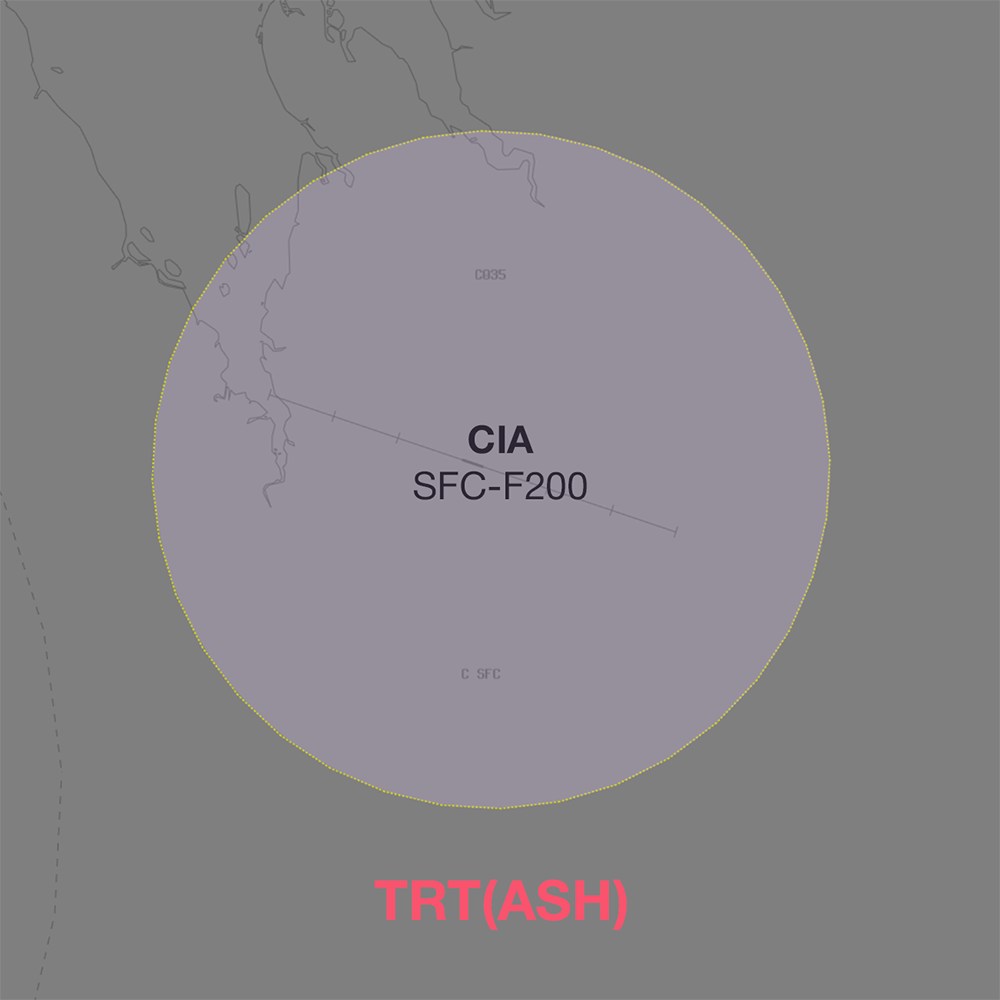
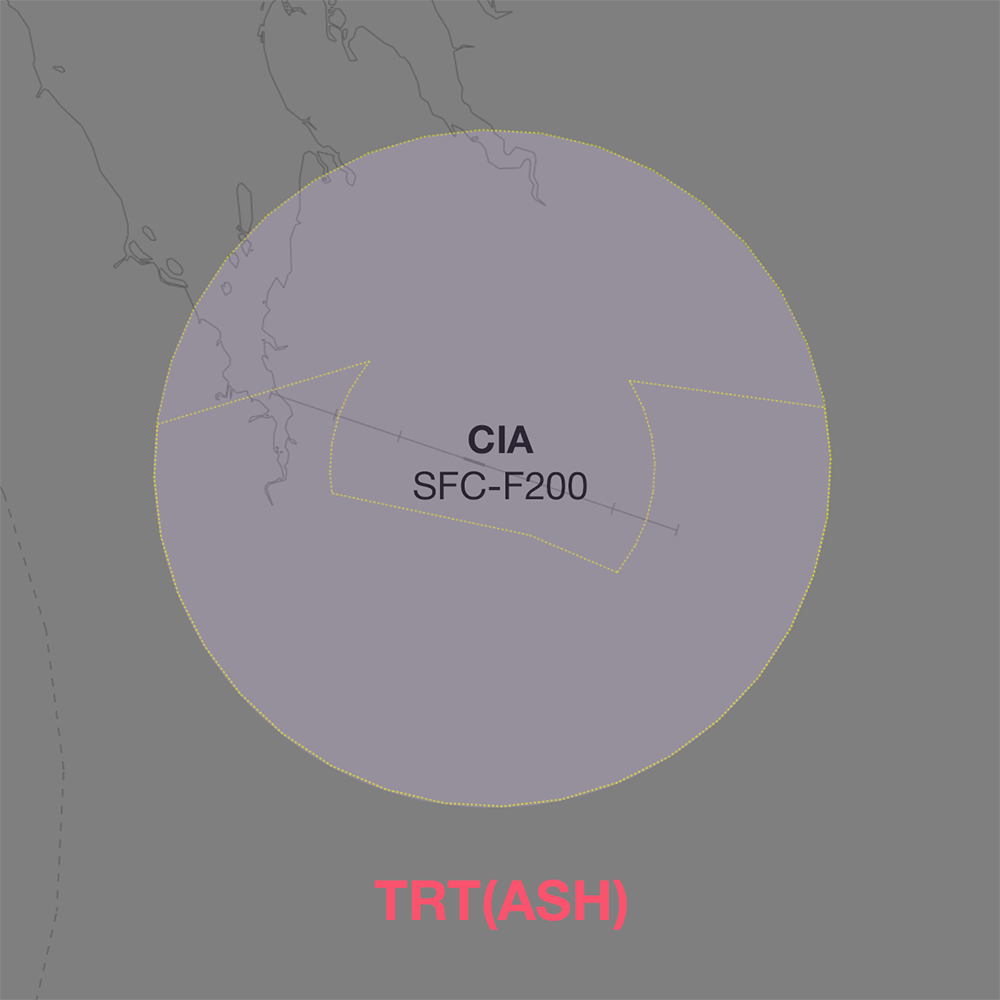
LM -> SY

diff --git a/docs/terminal/nowra.md b/docs/terminal/nowra.md
@@ -5,30 +5,45 @@
 --8<-- "includes/abbreviations.md"
 
 ## Positions
-| Name               | ID      | Callsign       | Frequency        | Login ID              |
-| ------------------ | --------------| -------------- | ---------------- | --------------------------------------|
-| **Nowra TMA**    | **NWA** | **Nowra Approach** | **123.500**          | **NW_APP**        |
+| Name                          | ID      | Callsign                | Frequency   | Login ID      |
+| ----------------------------- | ------- | ----------------------- | ----------- | ------------- |
+| **Nowra Approach**            | **NWA** | **Nowra Approach**      | **123.500** | **NW_APP**    |
 
 ## Airspace
-NW TCU owns the airspace within R421, `SFC` to `F125`. Where traffic levels (primarily preplanned military operations) warrant, NW TCU may request a release of R420F from `F125` to `F300` from WOL, if online.
+The vertical limits of the Nowra TCU is `SFC` to `F125`. Where traffic levels (primarily preplanned military operations) warrant, NW TCU may request a release of R420F from `F125` to `F300` from WOL, if online.
 
 <figure markdown>
-![NW TMA](img/nwtcu.png){ width="700" }
-<figcaption>NW TMA</figcaption>
+![NW TCU Structure](img/nw_tcu.png){ width="700" }
+  <figcaption>NW TCU Structure</figcaption>
 </figure>
+
+### Airspace Division
+**NWA** owns the airspace contained within:
+
+- R421A (`A015`-`A125`)  
+- R421B (`A025`-`A125`)  
+- M440A (`NOTAM`)
+- M440B (`NOTAM`)
+- M441 (`NOTAM`)
+
+<figure markdown>
+![NW TCU Restricted Areas](img/nw_restricted_areas.png){ width="952" }
+  <figcaption>nw TCU Restricted Areas</figcaption>
+</figure>
+
+**NW ADC** owns the Class C airspace in the AMB CTR from `SFC` to `A015`.
 
 ## Logon Process
 Due to the temporary nature of the airspace, surrounding controllers may not be aware of the lateral or vertical boundaries of the TMA. Therefore, when a controller logs on as Nowra TMA, it is important to announce that R421 is activated from SFC to F125.
-
 
 ## Local Procedures
 ### Activating R420F
 Where it is deemed operationally beneficial to activate R420F, this should be requested from the overlying enroute controller.
 
 !!! phraseology
-    <span class="hotline">**NW TCU** -> **WOL**</span>: "There's a preplanned military exercise about to commence, request release of R420F up to F300"  
-    <span class="hotline">**WOL** -> **NW TCU**</span>: "R420F released to you F125 to F300"  
-    <span class="hotline">**NW TCU** -> **WOL**</span>: "R420F released F125 to F300"   
+    <span class="hotline">**NWA** -> **WOL**</span>: "There's a preplanned military exercise about to commence, request release of R420F up to F300"  
+    <span class="hotline">**WOL** -> **NWA**</span>: "R420F released to you F125 to F300"  
+    <span class="hotline">**NWA** -> **WOL**</span>: "R420F released F125 to F300"   
 
 As per [Coordination](#enroute), with R420F active, all transiting aircraft will be coordinated by WOL. Where possible, facilitate the transit of these aircraft. In exceptional circumstances where the level of military aircraft movements prohibit transiting civil aircraft, inform WOL that no transiting aircraft can be accommodated, and that they will need to be rerouted to remain clear of the TCU.
 
@@ -76,11 +91,14 @@ The Standard Assignable level from **NW ADC** to **NW TCU** is:
 | All | The lower of `F120` and `RFL` | 
 
 !!! phraseology
-    <span class="hotline">**NW ADC** -> **NW TCU**</span>: "Next, BUCK03, runway 08"  
-    <span class="hotline">**NW TCU** -> **NW ADC**</span>: "BUCK03, Assigned Heading Left 030, unrestricted"  
-    <span class="hotline">**NW ADC** -> **NW TCU**</span>: "Assigned Heading Heading Left 030, BUCK03"
+    <span class="hotline">**NW ADC** -> **NWA**</span>: "Next, BUCK03, runway 08"  
+    <span class="hotline">**NWA** -> **NW ADC**</span>: "BUCK03, Assigned Heading Left 030, unrestricted"  
+    <span class="hotline">**NW ADC** -> **NWA**</span>: "Assigned Heading Heading Left 030, BUCK03"
 
 Helicopters departing from helicopter spots will be treated as if departing from the duty runway.
+
+### SY TCU
+All aircraft transiting between SY TCU and NW TCU require [Heads-up](../controller-skills/coordination.md#heads-up) coordination prior to the boundary; however, as soon as practical (when is the aircraft becomes airborne) is preferred. 
 
 ## Charts
 Aerodrome and instrument approach charts are available in the AIP, or otherwise in the RAAF TERMA document, available towards the bottom of [RAAF AIP page](https://ais-af.airforce.gov.au/australian-aip){target=new}.

diff --git a/docs/terminal/melbourne.md b/docs/terminal/melbourne.md
@@ -6,20 +6,20 @@
 
 ## Positions
 
-| Name               | ID      | Callsign       | Frequency        | Login ID              |
-| ------------------ | --------------| -------------- | ---------------- | --------------------------------------|
-| **Melbourne Approach East**    |**MAE**| **Melbourne Approach**   | **132.000**         | **ML_APP**                                   |
-| <span class="indented">Melbourne Departures North :material-information-outline:{ title="Non-standard position"}    |MDN| Melbourne Departures  | 118.900         | ML_DEP          |
-| <span class="indented">Melbourne Departures South :material-information-outline:{ title="Non-standard position"}   |MDS| Melbourne Departures | 129.400          | ML-S_DEP         |
-| <span class="indented">Melbourne (Avalon) Approach :material-information-outline:{ title="Non-standard position"}   |MAV| Avalon Approach | 133.550          | AV_APP         |
-| <span class="indented">Melbourne Flow :material-information-outline:{ title="Non-standard position"}        |MFL|                |          | ML_FMP                             |
+| Name                          | ID      | Callsign                | Frequency   | Login ID      |
+| ----------------------------- | ------- | ----------------------- | ----------- | ------------- |
+| **Melbourne Approach East**   | **MAE** | **Melbourne Approach**  | **132.000** | **ML_APP**    |
+| <span class="indented">Melbourne Departures North :material-information-outline:{ title="Non-standard position"}  | MDN | Melbourne Departures | 118.900  | ML_DEP   |
+| <span class="indented">Melbourne Departures South :material-information-outline:{ title="Non-standard position"}  | MDS | Melbourne Departures | 129.400  | ML-S_DEP |
+| <span class="indented">Melbourne (Avalon) Approach :material-information-outline:{ title="Non-standard position"} | MAV | Avalon Approach      | 133.550  | AV_APP   |
+| <span class="indented">Melbourne Flow :material-information-outline:{ title="Non-standard position"}              | MFL |                      |          | ML_FMP   |
 
 !!! abstract "Non-Standard Positions"
     :material-information-outline: Non-standard positions may only be used in accordance with [VATPAC Air Traffic Services Policy](https://vatpac.org/publications/policies){target=new}.  
     Approval must be sought from the **bolded parent position** prior to opening a Non-Standard Position, unless [NOTAMs](https://vatpac.org/publications/notam){target=new} indicate otherwise (eg, for events).
 
 ## Airspace
-The Vertical limits of the ML TCU are `SFC` to `F245`.
+The vertical limits of the ML TCU are `SFC` to `F245`.
 
 ### Reclassifications
 #### MB CTR

diff --git a/docs/terminal/learmonth.md b/docs/terminal/learmonth.md
@@ -6,17 +6,18 @@
 
 ## Positions
 
-| Name               | Callsign       | Frequency        | Login ID              |
-| ------------------ | -------------- | ---------------- | --------------------------------------|
-| **Learmonth TCU**   | **Learmonth Approach**   | **120.500**        | **LM_APP**                                   |
+| Name                          | ID      | Callsign                | Frequency   | Login ID      |
+| ----------------------------- | ------- | ----------------------- | ----------- | ------------- |
+| **Learmonth Approach**        | **LMA** | **Learmonth Approach**  | **120.500** | **LM_APP**    |
 
 ## Airspace
 The limits of the LM TCU are `SFC` to `F280` within 40 DME LM. This may be amended by NOTAM.
 
-By default, LM APP owns the Class C airspace within the LM MIL CTR `A015`-`A025`, as well as the following Restricted Areas, as detailed below:
+By default, LM APP owns the Class C airspace within the LM CTR `A015`-`A025`, as well as the following Restricted Areas, as detailed below:
 
-- R859A (`A045`-`A100`)  
-- R859B (`A100`-`F280`)  
+- M858A (`A045`-`A100`)  
+- M858B (`A100`-`F280`)
+- M869B (`A100`-`F250`)
 - R860A (`A015`-`A025`)  
 - R860B (`A025`-`F280`)  
 
@@ -46,8 +47,8 @@ Voiceless coordination is in place from LM TCU to OLW for aircraft assigned the 
 Any aircraft not meeting the above criteria must be prior coordinated to ENR.
 
 !!! phraseology
-    <span class="hotline">**LM TCU** -> **OLW**</span>: "QFA1601, with your concurrence, will be assigned F160, for my separation with JTE654"  
-    <span class="hotline">**OLW** -> **LM TCU**</span>: "QFA1601, concur F160"  
+    <span class="hotline">**LMA** -> **OLW**</span>: "QFA1601, with your concurrence, will be assigned F160, for my separation with JTE654"  
+    <span class="hotline">**OLW** -> **LMA**</span>: "QFA1601, concur F160"  
 
 #### Arrivals
 The Standard assignable level from OLW to LM TCU is `F130`, and tracking via LM VOR. All other aircraft must be prior coordinated.

diff --git a/docs/terminal/curtin.md b/docs/terminal/curtin.md
@@ -11,7 +11,7 @@
 | **Curtin Approach**           | **CIA** | **Curtin Approach**     | **121.000** | **CIN_APP**   |
 
 ## Airspace
-The vertical limits of the CIN TCU is `SFC` to `F200`.
+The vertical limit of the CIN TCU is `SFC` to `F200`.
 
 <figure markdown>
 ![CIN TCU Structure](img/cin_tcu.png){ width="700" }
@@ -19,12 +19,20 @@ The vertical limits of the CIN TCU is `SFC` to `F200`.
 </figure>
 
 ### Airspace Division
-By default, CIN APP owns the Class C airspace within the CIN CTR `A015`-`A035` as well as the R802A Restricted Area , defined as (`A035`-`F200`) within 25NM CIN. This may be amended by NOTAM.
+By default, CIN APP owns the Class C airspace within the CIN CTR `A015`-`A035` as well as:
+
+- R802A Restricted Area , defined as (`A035`-`F200`) within 25NM CIN.
+- R826 Restricted Area, defined as (`A015` - `A035`) in the south of the TCU.
+
+<figure markdown>
+![CIN TCU Restricted Areas](img/cin_restricted_areas.png){ width="700" }
+  <figcaption>CIN TCU Restricted Areas</figcaption>
+</figure>
 
 !!! note
     See [VATPAC NOTAMs](https://vatpac.org/publications/notam){target=new} for active NOTAMs which may affect military operations.
 
-### CIN ADC
+#### CIN ADC
 CIN ADC owns the Class C airspace within the CIN CTR from `SFC` to `A015`.
 
 ## Coordination

diff --git a/docs/terminal/sydney.md b/docs/terminal/sydney.md
@@ -710,4 +710,7 @@ SY TCU will **NOT** clear the aircraft for the approach.
     <span class="hotline">**SDN** -> **RI ADC**</span>: "TROJ57, unrestricted"  
     <span class="hotline">**RI ADC** -> **SDN**</span>: "TROJ57"  
 
-The Standard Assignable Level from **RI ADC** to **SY TCU** is the lower of `A050` or `RFL`.  
+The Standard Assignable Level from **RI ADC** to **SY TCU** is the lower of `A050` or `RFL`.
+
+### NW TCU
+All aircraft transiting between SY TCU and NW TCU require [Heads-up](../controller-skills/coordination.md#heads-up) coordination prior to the boundary; however, as soon as practical (when is the aircraft becomes airborne) is preferred. 

diff --git a/includes/abbreviations.md b/includes/abbreviations.md
@@ -80,6 +80,7 @@
 *[DAE]: Darwin Approach East
 *[ESA]: Sale Approach
 *[HBA]: Hobart Approach
+*[LMA]: Learmonth Approach
 *[LTA]: Launceston Approach
 *[MKA]: Mackay Approach
 *[RKA]: Rockhampton Approach
